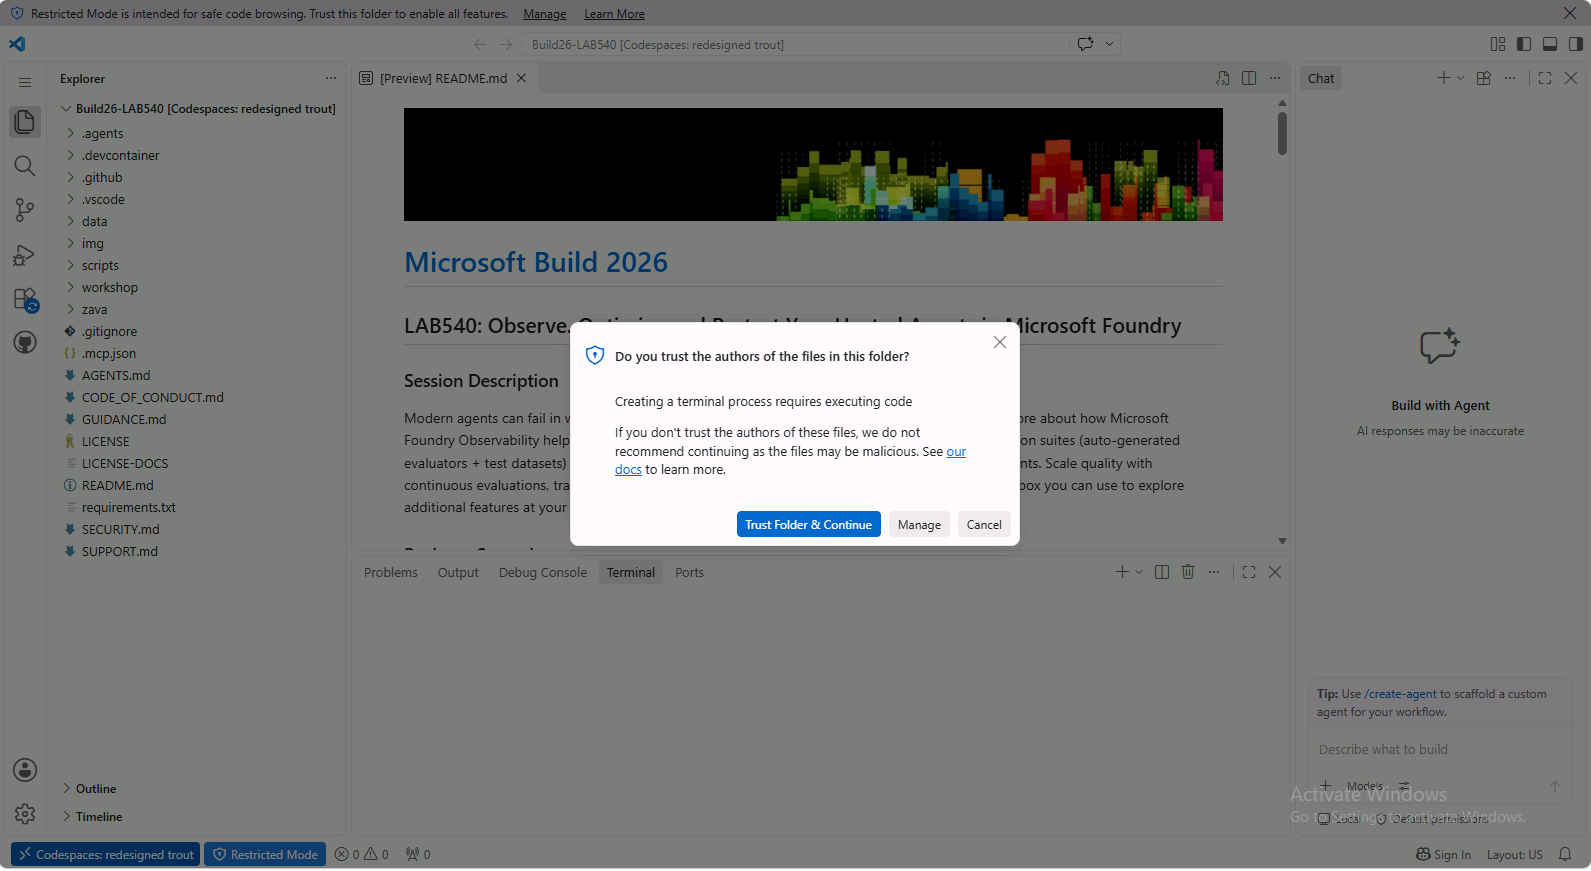
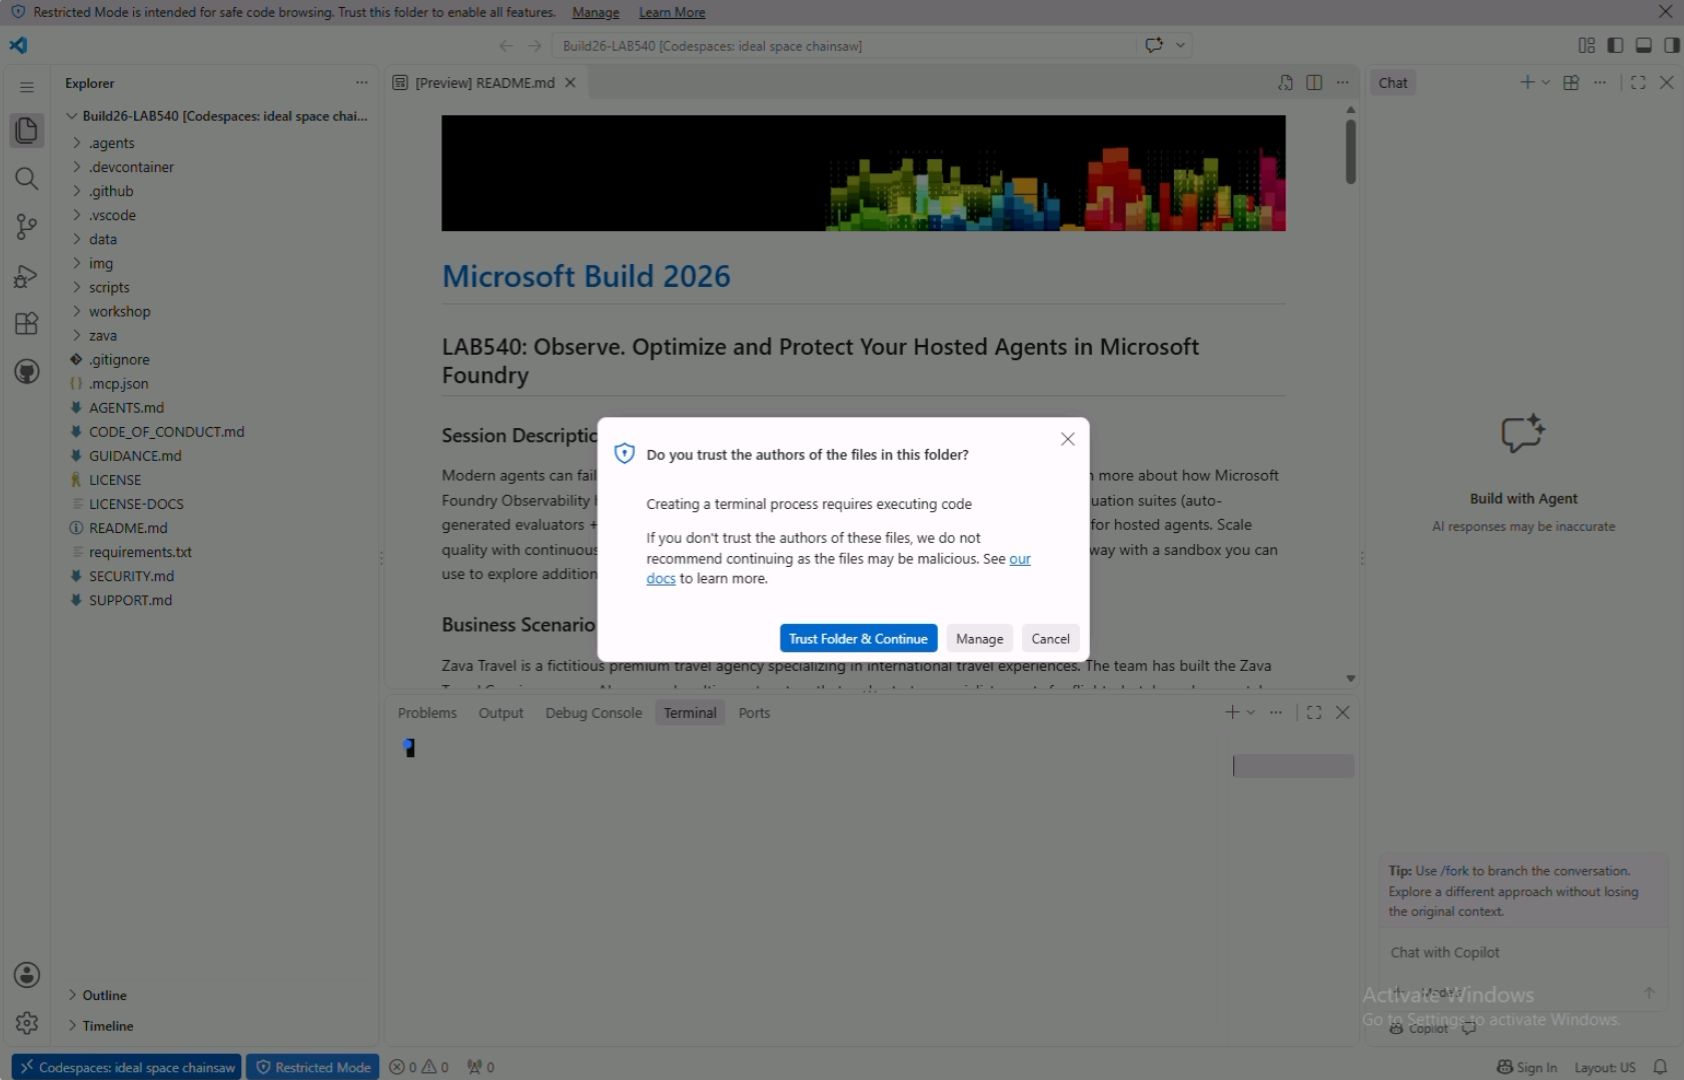
Skillable: refresh optimize-01/02 screenshots and text (trust folder, Foundry Toolkit, resource group, .env)

diff --git a/workshop/skillable/README.md b/workshop/skillable/README.md
@@ -410,21 +410,29 @@ keep it on task.
 
 ===
 
-# Open Codespace
+# Return to Codespace
 
-Your Codespace should be ready now. Switch to its tab (Tab 3) and let's move to code-first observabilty.
+Your Github Codespace should be ready by now. Switch back to that tab and let's move to **code-first observabilty.**
 
-1. [] Switch to the **Codespace** tab. Wait until VS Code has fully loaded.
-1. [] If the **Codespace** has stopped after being idle, select **Restart** and wait for the **Codespace** to start. 
-1. [] Wait until **VS Code** has fully loaded. 
-2. [] Verify that the Foundry Toolkit extension is installed. _The icon should be the last one in the sidebar. It may sometimes not be rendered though it is present - so hover over the space to see if "Foundry Toolkit" tip shows. **This is required for Foundry MCP server access later**.
-1. [] If the **Do you trust the authors of the files in this folder?** prompt appears, select **Trust Folder & Continue** to proceed. 
+1. [] Verify that you see something like this. This shows the Codespaces is loaded and ready. Click **Trust Folder & Continue** to dismiss the dialog. 
 
    ![The VS Code dialog asking whether you trust the authors of the files in this folder, with the Trust Folder & Continue button](https://raw.githubusercontent.com/nitya/Build26-LAB540-observe-optimize-and-protect-your-hosted-agents-in-microsoft-foundry/lods-aiewf26-refresh-test/workshop/skillable/images/03-optimize-01-trust-folder.png)
 
+1. [] Verify that the Foundry Toolkit (FTK) extension is installed by checking the VS Code sidebar. This is required to use the **Foundry MCP Server**. _Note: As shown, the FTK icon may sometimes not be rendered correctly - hover over the spot to see if the extension exists_.
+
+   ![The VS Code sidebar with the Foundry Toolkit icon highlighted and its tooltip shown](https://raw.githubusercontent.com/nitya/Build26-LAB540-observe-optimize-and-protect-your-hosted-agents-in-microsoft-foundry/lods-aiewf26-refresh-test/workshop/skillable/images/03-optimize-01-foundry-toolkit.png)
+
+>[!Hint] If the Codespace had stopped (idle timeout), select restart or reload the tab and wait till it loads completely. It should take just a minute or so this time.
+
+>[!Hint] If the FTK extension is not installed, call a proctor to ask for help installing it manually.
+
+<br/>
+
+## Validate Environment
+
 1. [] Open a terminal (**Terminal → New Terminal**).
 
-1. [] Copy and run each command below to verify the core CLIs are present:
+1. [] Copy and paste each command below in the terminal to verify commandline tools are installed:
 
    ++az version++
 
@@ -433,19 +441,19 @@ Your Codespace should be ready now. Switch to its tab (Tab 3) and let's move to 
    ++python --version++
 
 
-## Reset to the clean baseline
+## Reset the baseline
 
-Clear any stale **.foundry** state and restore the baseline concierge prompt. This ensures every run starts from the same intentionally under-optimized prompt as everyone else:
+The _.foundry/_ folder contains state from previous Foundry skills runs. Run these commands to clear any stale state so you start at the same intentionally under-optimized prompt as everyone else:
 
-1. [] Copy and run this command in the terminal to execute it:  
+1. [] Run this command in the terminal to remove stale folders. 
 
    +++rm -rf zava/src/zava-travel-concierge/.foundry+++
 
-1. [] Type this command to run script: 
+1. [] Run this command to reset instructions.
 
    ++bash zava/src/zava-travel-concierge/scripts/reset-instructions.sh++
 
-## What **main.py** does
+## Study the agent (**main.py**)
 
 1. [] Open the agent's source file **zava/src/zava-travel-concierge/main.py** and skim it. This is the agent you've been observing — and the code the optimize loop will change.
 1. [] Read the description below to understand the components that make up our **zava-concierge** hosted agent.
@@ -469,62 +477,63 @@ C#, where agents, tools, and orchestration are all defined in code.
 
 ===
 
-# Sign in to Azure
+# Setup Codespaces Environment
 
-The optimize loop talks to your Foundry project from code, so sign in with both
-the Azure CLI (**az**) and the Azure Developer CLI (**azd**). You'll use **device
-code** sign-in to keep things simple inside the Codespace.
+We will be using a **code-first** approach to run the observability loop for agent optimization. To do this, we need to authenticate with Azure (to access our Foundry project) and setup our local environment variables (for code-first access).
+
+>[!Hint] If you see a popup anytime asking "Would you like to install Azure skills?" - go ahead and click the Install button.
 
 ## Sign in with **az**
 
-1. [] Copy this command and run it in the terminal to clear it:
+The Azure CLI is used to authenticate with Azure and provide the default credentials needed for code-first development.
 
-   ++clear++
+1. [] Open a new terminal in VS Code. _You can also type "clear" to clear output in the existing terminal_.
 
-1. [] Now copy this command and run it:
+1. [] Copy this command and run it.
 
    ++az login --use-device-code++
 
-1. [] Open the verification URL, enter the code shown. You will be taken to a screen to authenticate with your subscription.
+1. [] Follow the instructions shown by opening the verification URL and entering the code provided. Complete the authentication flow with existing login. (_If you need to sign in again, use the credentials from the **Resources** tab in your instructions panel_)
 
-1. [] Select the subscription you logged into earlier. (If needed sign in again with these credentials)
-   **Username:** +++@lab.CloudPortalCredential(User1).Username+++
-   **Password (TAP):** +++@lab.CloudPortalCredential(User1).AccessToken+++
+1. [] Close the auth window and return to the VS Code terminal. Select the default subscription to complete the flow.
 
-1. [] Click "Approve" in the pop-up dialog, then close the dialog window when prompted.
-
-1. [] Return to the Codespaces terminal. When prompted, select the default subscription.
+1. [] Return to the Codespaces terminal. When prompted, select the default subscription. You are now logged in.
 
 ## Sign in with **azd**
 
-1. [] In the terminal, copy and run this command:
+The Azure Developer CLI was used to provision our infrastructure. We will need it to retrieve and refresh our environment variables.
+
+1. [] Return to the VS Code terminal.
+
+1. [] Copy this command and run it.
 
    ++azd auth login --use-device-code++
 
-1. [] Press enter to complete the same device-code sign-in flow.
+1. [] Follow instructions to complete the authentication flow.
 
-<!-- TODO screenshot: device code sign-in prompt -->
 
 ## Setup **.env** in Codespaces
 
-Run the script to automatically have your **.env** created from the deployed infrastructure.
+We can now use _azd_ to setup our local environment variables.
 
-1. [] Copy this command and run it to clear the terminal:
 
-   ++clear++
+1. [] Return to the VS Code terminal. _Use "clear" to clear terminal output before you begin_.
 
-1. [] Copy this command to the terminal to execute it:  
+1. [] Copy this command and run it.
 
    +++bash scripts/discover-env.sh+++
 
-1. [] You will be prompted for the name of the resource group to use. 
+1. [] You will be prompted for the resource group name. Switch to the Azure portal tab and copy the name you see 
 
-   - Visit the Azure portal tab and copy the resource group name. It should start with **rg-lab540-**.
-   - Return to the Codespaces tab and paste this where prompted.
+   ![The Azure portal resource group overview with the rg-lab540 resource group name highlighted for copying](https://raw.githubusercontent.com/nitya/Build26-LAB540-observe-optimize-and-protect-your-hosted-agents-in-microsoft-foundry/lods-aiewf26-refresh-test/workshop/skillable/images/03-optimize-02-resource-group.png)
+
+1. [] Return to the VS Code terminal and paste that as response and wait for script to finish.
 
 >[!Alert] If you try to copy-paste the value into the terminal, you will get a pop-up asking permission to **read from and write to the clipboard**. Select **Allow** — you will need this for future copy-paste actions.
 
-1. Wait till the script is complete. Verify that a **.env** was setup with all required parameters filled in.
+1. [] Verify that a **.env** was setup with all required parameters filled in.
+
+   ![The .env file open in VS Code with AZURE_RESOURCE_GROUP filled in, and the terminal showing discover-env.sh reporting that all environment variables are set](https://raw.githubusercontent.com/nitya/Build26-LAB540-observe-optimize-and-protect-your-hosted-agents-in-microsoft-foundry/lods-aiewf26-refresh-test/workshop/skillable/images/03-optimize-02-env.png)
 
 >[!Knowledge] This *.env* will be used by GitHub Copilot in a subsequent step to establish our *.azure* configuration for the Azure Developer CLI tooling.
 

diff --git a/workshop/skillable/03-optimize-02.md b/workshop/skillable/03-optimize-02.md
@@ -1,59 +1,60 @@
-# Sign in to Azure
+# Setup Codespaces Environment
 
-The optimize loop talks to your Foundry project from code, so sign in with both
-the Azure CLI (**az**) and the Azure Developer CLI (**azd**). You'll use **device
-code** sign-in to keep things simple inside the Codespace.
+We will be using a **code-first** approach to run the observability loop for agent optimization. To do this, we need to authenticate with Azure (to access our Foundry project) and setup our local environment variables (for code-first access).
+
+>[!Hint] If you see a popup anytime asking "Would you like to install Azure skills?" - go ahead and click the Install button.
 
 ## Sign in with **az**
 
-1. [] Copy this command and run it in the terminal to clear it:
+The Azure CLI is used to authenticate with Azure and provide the default credentials needed for code-first development.
 
-   ++clear++
+1. [] Open a new terminal in VS Code. _You can also type "clear" to clear output in the existing terminal_.
 
-1. [] Now copy this command and run it:
+1. [] Copy this command and run it.
 
    ++az login --use-device-code++
 
-1. [] Open the verification URL, enter the code shown. You will be taken to a screen to authenticate with your subscription.
+1. [] Follow the instructions shown by opening the verification URL and entering the code provided. Complete the authentication flow with existing login. (_If you need to sign in again, use the credentials from the **Resources** tab in your instructions panel_)
 
-1. [] Select the subscription you logged into earlier. (If needed sign in again with these credentials)
-   **Username:** +++@lab.CloudPortalCredential(User1).Username+++
-   **Password (TAP):** +++@lab.CloudPortalCredential(User1).AccessToken+++
+1. [] Close the auth window and return to the VS Code terminal. Select the default subscription to complete the flow.
 
-1. [] Click "Approve" in the pop-up dialog, then close the dialog window when prompted.
-
-1. [] Return to the Codespaces terminal. When prompted, select the default subscription.
+1. [] Return to the Codespaces terminal. When prompted, select the default subscription. You are now logged in.
 
 ## Sign in with **azd**
 
-1. [] In the terminal, copy and run this command:
+The Azure Developer CLI was used to provision our infrastructure. We will need it to retrieve and refresh our environment variables.
+
+1. [] Return to the VS Code terminal.
+
+1. [] Copy this command and run it.
 
    ++azd auth login --use-device-code++
 
-1. [] Press enter to complete the same device-code sign-in flow.
+1. [] Follow instructions to complete the authentication flow.
 
-<!-- TODO screenshot: device code sign-in prompt -->
 
 ## Setup **.env** in Codespaces
 
-Run the script to automatically have your **.env** created from the deployed infrastructure.
+We can now use _azd_ to setup our local environment variables.
 
-1. [] Copy this command and run it to clear the terminal:
 
-   ++clear++
+1. [] Return to the VS Code terminal. _Use "clear" to clear terminal output before you begin_.
 
-1. [] Copy this command to the terminal to execute it:  
+1. [] Copy this command and run it.
 
    +++bash scripts/discover-env.sh+++
 
-1. [] You will be prompted for the name of the resource group to use. 
+1. [] You will be prompted for the resource group name. Switch to the Azure portal tab and copy the name you see 
 
-   - Visit the Azure portal tab and copy the resource group name. It should start with **rg-lab540-**.
-   - Return to the Codespaces tab and paste this where prompted.
+   ![The Azure portal resource group overview with the rg-lab540 resource group name highlighted for copying](https://raw.githubusercontent.com/nitya/Build26-LAB540-observe-optimize-and-protect-your-hosted-agents-in-microsoft-foundry/lods-aiewf26-refresh-test/workshop/skillable/images/03-optimize-02-resource-group.png)
+
+1. [] Return to the VS Code terminal and paste that as response and wait for script to finish.
 
 >[!Alert] If you try to copy-paste the value into the terminal, you will get a pop-up asking permission to **read from and write to the clipboard**. Select **Allow** — you will need this for future copy-paste actions.
 
-1. Wait till the script is complete. Verify that a **.env** was setup with all required parameters filled in.
+1. [] Verify that a **.env** was setup with all required parameters filled in.
+
+   ![The .env file open in VS Code with AZURE_RESOURCE_GROUP filled in, and the terminal showing discover-env.sh reporting that all environment variables are set](https://raw.githubusercontent.com/nitya/Build26-LAB540-observe-optimize-and-protect-your-hosted-agents-in-microsoft-foundry/lods-aiewf26-refresh-test/workshop/skillable/images/03-optimize-02-env.png)
 
 >[!Knowledge] This *.env* will be used by GitHub Copilot in a subsequent step to establish our *.azure* configuration for the Azure Developer CLI tooling.
 

diff --git a/workshop/skillable/03-optimize-01.md b/workshop/skillable/03-optimize-01.md
@@ -1,18 +1,26 @@
-# Open Codespace
+# Return to Codespace
 
-Your Codespace should be ready now. Switch to its tab (Tab 3) and let's move to code-first observabilty.
+Your Github Codespace should be ready by now. Switch back to that tab and let's move to **code-first observabilty.**
 
-1. [] Switch to the **Codespace** tab. Wait until VS Code has fully loaded.
-1. [] If the **Codespace** has stopped after being idle, select **Restart** and wait for the **Codespace** to start. 
-1. [] Wait until **VS Code** has fully loaded. 
-2. [] Verify that the Foundry Toolkit extension is installed. _The icon should be the last one in the sidebar. It may sometimes not be rendered though it is present - so hover over the space to see if "Foundry Toolkit" tip shows. **This is required for Foundry MCP server access later**.
-1. [] If the **Do you trust the authors of the files in this folder?** prompt appears, select **Trust Folder & Continue** to proceed. 
+1. [] Verify that you see something like this. This shows the Codespaces is loaded and ready. Click **Trust Folder & Continue** to dismiss the dialog. 
 
    ![The VS Code dialog asking whether you trust the authors of the files in this folder, with the Trust Folder & Continue button](https://raw.githubusercontent.com/nitya/Build26-LAB540-observe-optimize-and-protect-your-hosted-agents-in-microsoft-foundry/lods-aiewf26-refresh-test/workshop/skillable/images/03-optimize-01-trust-folder.png)
 
+1. [] Verify that the Foundry Toolkit (FTK) extension is installed by checking the VS Code sidebar. This is required to use the **Foundry MCP Server**. _Note: As shown, the FTK icon may sometimes not be rendered correctly - hover over the spot to see if the extension exists_.
+
+   ![The VS Code sidebar with the Foundry Toolkit icon highlighted and its tooltip shown](https://raw.githubusercontent.com/nitya/Build26-LAB540-observe-optimize-and-protect-your-hosted-agents-in-microsoft-foundry/lods-aiewf26-refresh-test/workshop/skillable/images/03-optimize-01-foundry-toolkit.png)
+
+>[!Hint] If the Codespace had stopped (idle timeout), select restart or reload the tab and wait till it loads completely. It should take just a minute or so this time.
+
+>[!Hint] If the FTK extension is not installed, call a proctor to ask for help installing it manually.
+
+<br/>
+
+## Validate Environment
+
 1. [] Open a terminal (**Terminal → New Terminal**).
 
-1. [] Copy and run each command below to verify the core CLIs are present:
+1. [] Copy and paste each command below in the terminal to verify commandline tools are installed:
 
    ++az version++
 
@@ -21,19 +29,19 @@ Your Codespace should be ready now. Switch to its tab (Tab 3) and let's move to 
    ++python --version++
 
 
-## Reset to the clean baseline
+## Reset the baseline
 
-Clear any stale **.foundry** state and restore the baseline concierge prompt. This ensures every run starts from the same intentionally under-optimized prompt as everyone else:
+The _.foundry/_ folder contains state from previous Foundry skills runs. Run these commands to clear any stale state so you start at the same intentionally under-optimized prompt as everyone else:
 
-1. [] Copy and run this command in the terminal to execute it:  
+1. [] Run this command in the terminal to remove stale folders. 
 
    +++rm -rf zava/src/zava-travel-concierge/.foundry+++
 
-1. [] Type this command to run script: 
+1. [] Run this command to reset instructions.
 
    ++bash zava/src/zava-travel-concierge/scripts/reset-instructions.sh++
 
-## What **main.py** does
+## Study the agent (**main.py**)
 
 1. [] Open the agent's source file **zava/src/zava-travel-concierge/main.py** and skim it. This is the agent you've been observing — and the code the optimize loop will change.
 1. [] Read the description below to understand the components that make up our **zava-concierge** hosted agent.
